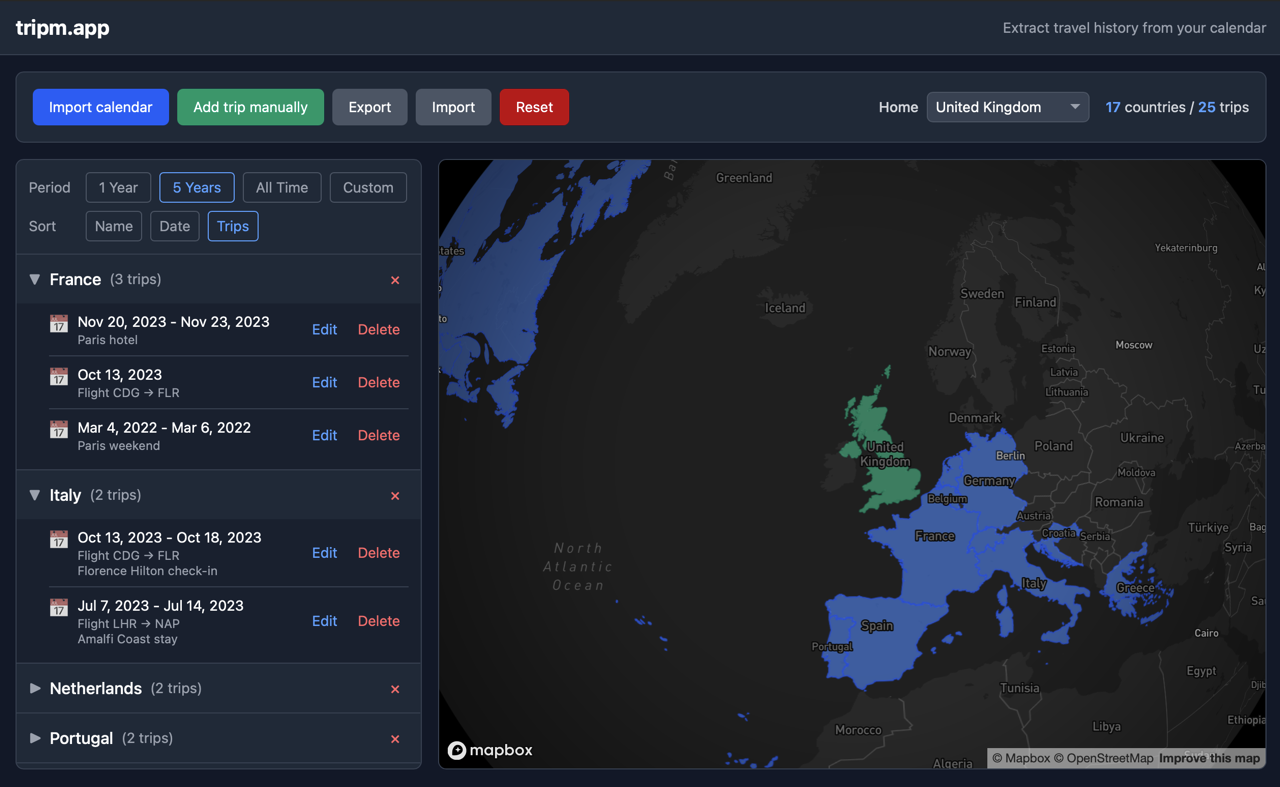
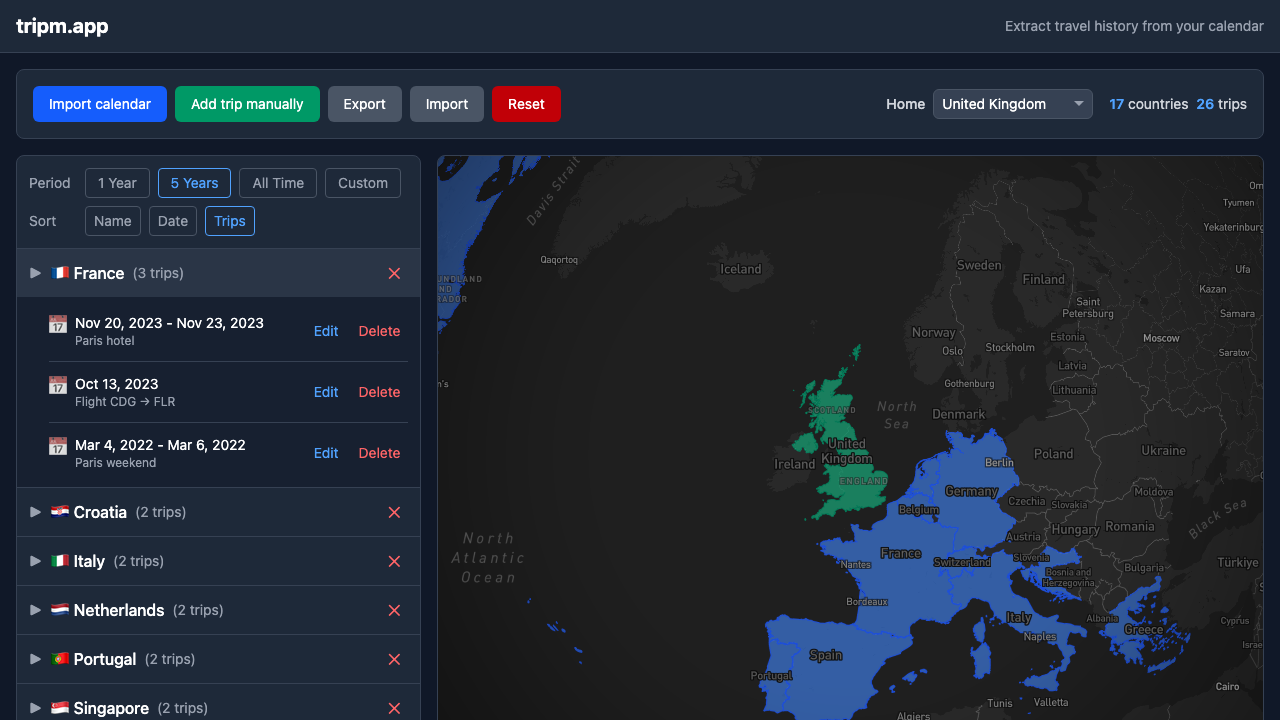
Add Playwright for visual snapshot testing and screenshot generation

diff --git a/e2e/app.spec.ts b/e2e/app.spec.ts
@@ -1,0 +1,33 @@
+import { test, expect } from '@playwright/test';
+import { readFileSync } from 'fs';
+import { join } from 'path';
+import { parseICalData } from '../src/lib/calendar-parser';
+import { extractCountryVisits } from '../src/lib/country-extractor';
+
+const icsData = readFileSync(join(process.cwd(), 'test-calendar.ics'), 'utf-8');
+const visits = extractCountryVisits(parseICalData(icsData));
+const storageData = JSON.stringify({ visits, version: 1 });
+
+test('populated map matches snapshot', async ({ page }) => {
+  await page.addInitScript((data) => {
+    localStorage.setItem('trip-map-visits', data);
+  }, storageData);
+
+  await page.goto('/');
+  await page.waitForSelector('canvas.mapboxgl-canvas');
+  await page.waitForTimeout(2000);
+
+  await expect(page).toHaveScreenshot('populated-map.png', {
+    maxDiffPixels: 500,
+  });
+});
+
+test('empty map matches snapshot', async ({ page }) => {
+  await page.goto('/');
+  await page.waitForSelector('canvas.mapboxgl-canvas');
+  await page.waitForTimeout(2000);
+
+  await expect(page).toHaveScreenshot('empty-map.png', {
+    maxDiffPixels: 500,
+  });
+});

diff --git a/e2e/screenshot.spec.ts b/e2e/screenshot.spec.ts
@@ -1,0 +1,30 @@
+import { test } from '@playwright/test';
+import { readFileSync } from 'fs';
+import { join } from 'path';
+import { parseICalData } from '../src/lib/calendar-parser';
+import { extractCountryVisits } from '../src/lib/country-extractor';
+
+const icsData = readFileSync(join(process.cwd(), 'test-calendar.ics'), 'utf-8');
+const visits = extractCountryVisits(parseICalData(icsData));
+const storageData = JSON.stringify({ visits, version: 1 });
+
+test.use({ colorScheme: 'dark' });
+
+test('generate README screenshot', async ({ page }) => {
+  await page.addInitScript((data) => {
+    localStorage.setItem('trip-map-visits', data);
+  }, storageData);
+
+  await page.goto('/');
+  await page.waitForSelector('canvas.mapboxgl-canvas');
+  await page.waitForTimeout(2000);
+
+  // Sort by trips and expand the top country
+  await page.getByRole('button', { name: 'Trips' }).click();
+  const countryRows = page.locator('ul.divide-y > li > div.cursor-pointer');
+  await countryRows.nth(0).click();
+
+  await page.screenshot({
+    path: join(process.cwd(), 'screenshot.png'),
+  });
+});

diff --git a/playwright.config.ts b/playwright.config.ts
@@ -1,0 +1,25 @@
+import { defineConfig, devices } from '@playwright/test';
+
+export default defineConfig({
+  testDir: './e2e',
+  fullyParallel: false,
+  workers: 1,
+  retries: 0,
+  reporter: 'html',
+  use: {
+    baseURL: 'http://localhost:4173',
+    ...devices['Desktop Chrome'],
+    viewport: { width: 1280, height: 800 },
+  },
+  projects: [
+    {
+      name: 'chromium',
+      use: { ...devices['Desktop Chrome'] },
+    },
+  ],
+  webServer: {
+    command: 'npm run preview',
+    port: 4173,
+    reuseExistingServer: !process.env.CI,
+  },
+});
